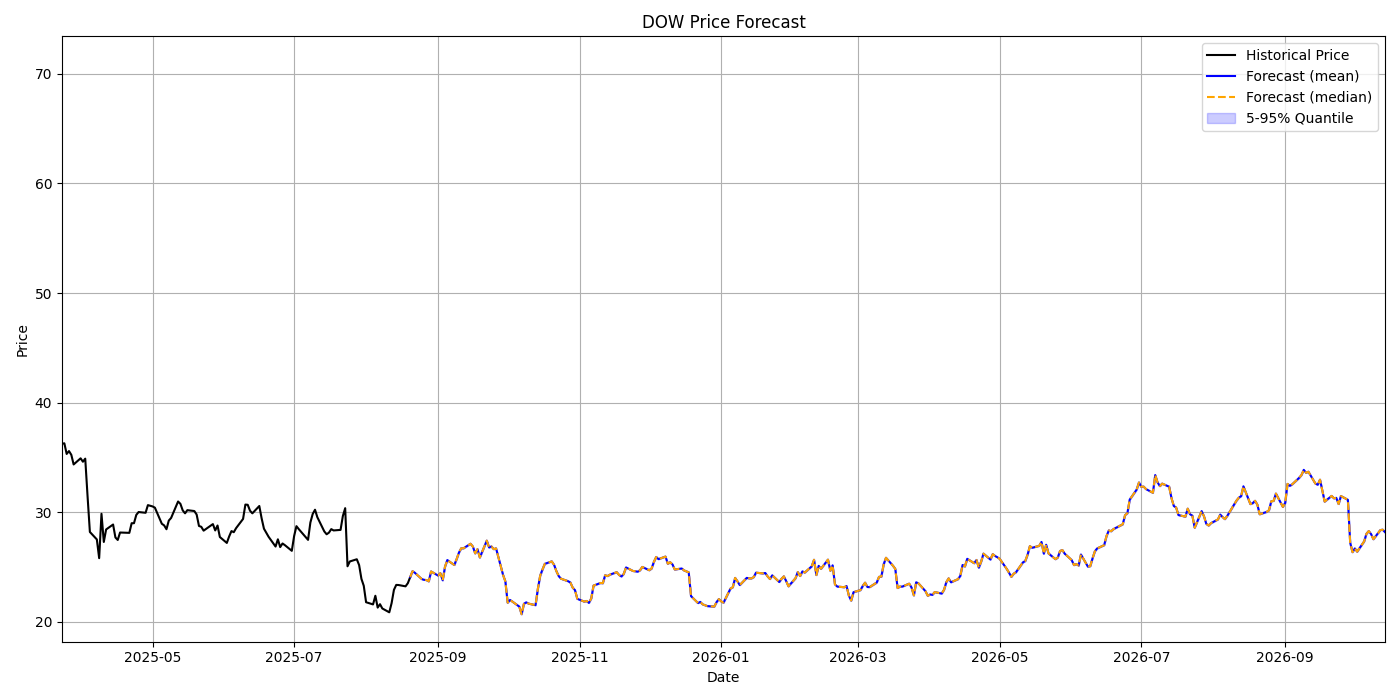
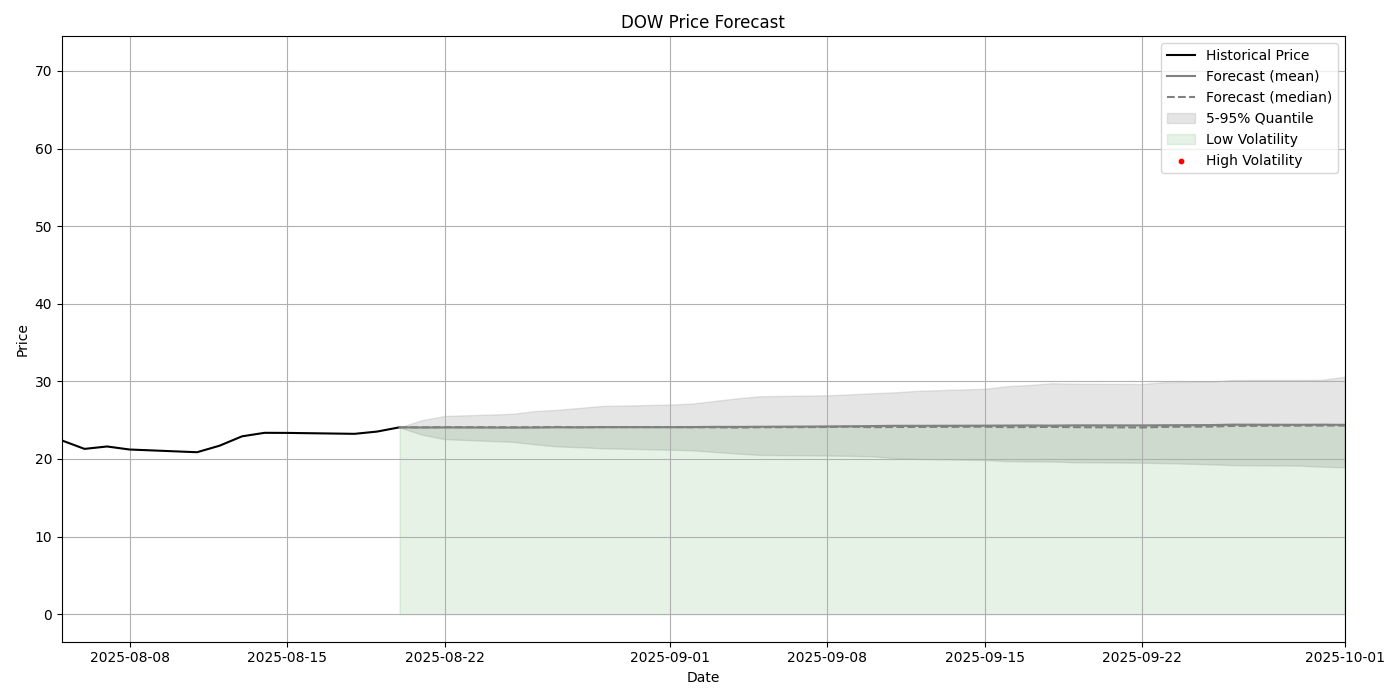
Add state indicator to forecast plot

diff --git a/src/plot_forecast.py b/src/plot_forecast.py
@@ -13,13 +13,17 @@ hist_df = pd.read_csv(f"reports/{symbol}/tables/{symbol}_probs_states.csv", pars
 
 # Load forecast
 forecast_df = pd.read_csv(f"reports/{symbol}/tables/{symbol}_forecast.csv", parse_dates=["index"]).set_index("index")
+low_vol = forecast_df["state"] == 0
+high_vol = forecast_df["state"] == 1
 
 # Plot
 plt.figure(figsize=(14, 7))
 plt.plot(hist_df.index, hist_df[price_col], label="Historical Price", color="black")
-plt.plot(forecast_df.index, forecast_df["point_forecast"], label="Forecast (mean)", color="blue")
-plt.plot(forecast_df.index, forecast_df["median_forecast"], label="Forecast (median)", color="orange", linestyle="--")
-plt.fill_between(forecast_df.index, forecast_df["p05"], forecast_df["p95"], color="blue", alpha=0.2, label="5-95% Quantile")
+plt.plot(forecast_df.index, forecast_df["point_forecast"], label="Forecast (mean)", color="gray")
+plt.plot(forecast_df.index, forecast_df["median_forecast"], label="Forecast (median)", color="gray", linestyle="--")
+plt.fill_between(forecast_df.index, forecast_df["p05"], forecast_df["p95"], color="gray", alpha=0.2, label="5-95% Quantile")
+plt.scatter(forecast_df.index[low_vol], forecast_df["point_forecast"][low_vol], color="green", label="Low Volatility",s=10)
+plt.scatter(forecast_df.index[high_vol], forecast_df["point_forecast"][high_vol], color="red", label="High Volatility", s=10)
 
 plt.xlabel("Date")
 plt.ylabel("Price")

diff --git a/src/forecast.py b/src/forecast.py
@@ -62,9 +62,10 @@ paths = regime_probs
 forecast_dates = pd.date_range(start=df.index[-1], periods=n_steps+1, freq='B')
 price_forecast_df = pd.DataFrame(price_paths, index=forecast_dates, columns=["point_forecast", "median_forecast", "p05", "p95"])
 prob_forecast_df = pd.DataFrame(paths, index=forecast_dates, columns=["low_vol_prob", "high_vol_prob"])
+state_forecast_df = pd.DataFrame(np.argmax(paths, axis=1), index=forecast_dates, columns=["state"])
 
 # Combine into a single DataFrame
-forecast_df = pd.concat([prob_forecast_df, price_forecast_df], axis=1)
+forecast_df = pd.concat([prob_forecast_df, price_forecast_df, state_forecast_df], axis=1)
 
 # Save the forecasted prices and probabilities to CSV
 p = Path(f"reports/{symbol}/tables/{symbol}_forecast.csv")
